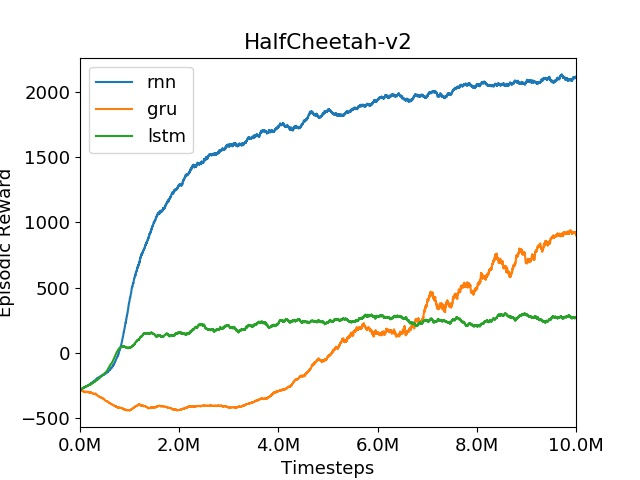
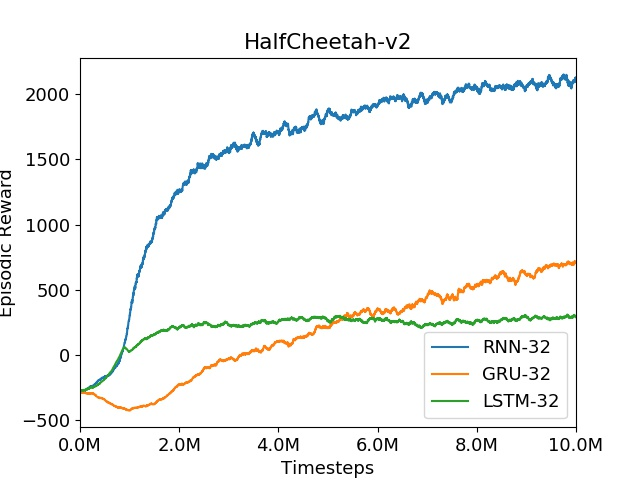
Fix plot labels

diff --git a/plot.py b/plot.py
@@ -5,23 +5,7 @@ import numpy as np
 
 interactive(True)
 
-ENVS = ['Hopper-v2', 'Swimmer-v2', 'Walker2d-v2', 'HalfCheetah-v2', 'Humanoid-v2', 'HumanoidStandup-v2']
-
-# for plotting baselines against each other
-MODELS = ['MultilayerPerceptron', 'StructuredControlNet', 'RecurrentNeuralNetwork', 'RecurrentControlNet']
-ABBRVS = ['mlp', 'scn', 'rnn', 'rcn']
-
-# for plotting recurrent architectures against each other
-# MODELS = ['RecurrentNeuralNetwork', 'GatedRecurrentUnit', 'LongShortTermMemory']
-# ABBRVS = ['rnn', 'gru', 'lstm']
-
-# for plotting different initializations of RNNs
-# MODELS = ['RecurrentNeuralNetwork,GaussianInit', 'RecurrentNeuralNetwork,UniformInit', 'RecurrentNeuralNetwork,ConstantInit', 'RecurrentNeuralNetwork,ZeroInit']
-# ABBRVS = ['rnn-gaussian', 'rnn-uniform', 'rnn-constant', 'rnn-zero']
-
-# for plotting RCNs for bias vector testing
-# MODELS = ['RecurrentControlNet,WithBias', 'RecurrentControlNet,NoBias']
-# ABBRVS = ['rcn_bias', 'rcn_nobias']
+ENVS = ['Hopper-v2', 'Swimmer-v2', 'Walker2d-v2', 'HalfCheetah-v2', 'Humanoid-v2']
 
 def moving_average(a, n=100):
     """
@@ -90,7 +74,7 @@ def plot(args):
     plt.title('{}'.format(env))
 
     # iterate through each model for plotting
-    for m, a in zip(MODELS, ABBRVS):
+    for m, a, l in zip(MODELS, ABBRVS, LABELS):
         # obtain .csv files corresponding to model
         files = [i for i in f if a in i]
         if len(files) == 0:
@@ -115,9 +99,9 @@ def plot(args):
             if avg_window > 1:
                 y_moveavg = moving_average(y, avg_window)
                 y_moveavg = np.append(y_moveavg, [y_moveavg[-1]] * (avg_window - 1))
-                plt.plot(x, y_moveavg, label=a)
+                plt.plot(x, y_moveavg, label=l)
             else:
-                plt.plot(x, y, label=a)
+                plt.plot(x, y, label=l)
 
     # save compiled plot
     print('Saving...')
@@ -137,7 +121,7 @@ def main():
     parser.add_argument('--avg_window', nargs='?', type=int, default=100, help='moving average window')
     parser.add_argument('--max_timestep', nargs='?', type=int, default=10000000, help='max timestep to plot to')
     parser.add_argument('--timescale', nargs='?', type=int, default=2000000, help='timestep scale')
-    parser.add_argument('--overwrite', action='store_false', default=True, dest='overwrite', help='overwrite existing avg')
+    parser.add_argument('--overwrite', action='store_true', default=False, dest='overwrite', help='overwrite existing avg')
 
     args = parser.parse_args()
 
@@ -153,18 +137,22 @@ def main():
 
     global MODELS
     global ABBRVS
+    global LABELS
     # for plotting recurrent architectures against each other
     if args.mode == 'rnns':
         MODELS = ['RecurrentNeuralNetwork', 'GatedRecurrentUnit', 'LongShortTermMemory']
         ABBRVS = ['rnn', 'gru', 'lstm']
+        LABELS = ['RNN-32', 'GRU-32', 'LSTM-32']
     # for plotting RCNs for bias vector testing
     elif args.mode == 'rcn-biases':
         MODELS = ['RecurrentControlNet,WithBias', 'RecurrentControlNet,NoBias']
         ABBRVS = ['rcn_bias', 'rcn_nobias']
+        LABELS = ['RCN-32 with bias', 'RCN-32 with no bias']
     # for plotting baselines against each other
     else:
         MODELS = ['MultilayerPerceptron', 'StructuredControlNet', 'RecurrentNeuralNetwork', 'RecurrentControlNet']
         ABBRVS = ['mlp', 'scn', 'rnn', 'rcn']
+        LABELS = ['MLP-64', 'SCN-16', 'RNN-32', 'RCN-32']
 
     plot(args)
 
